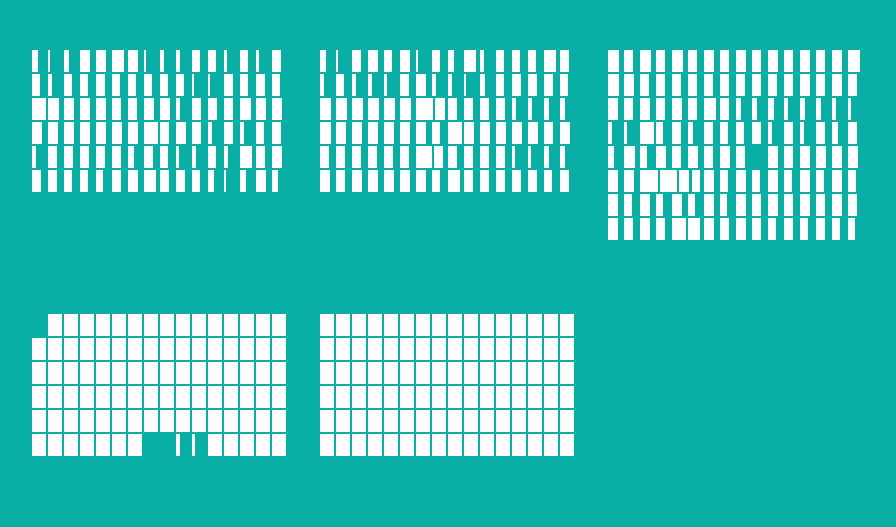
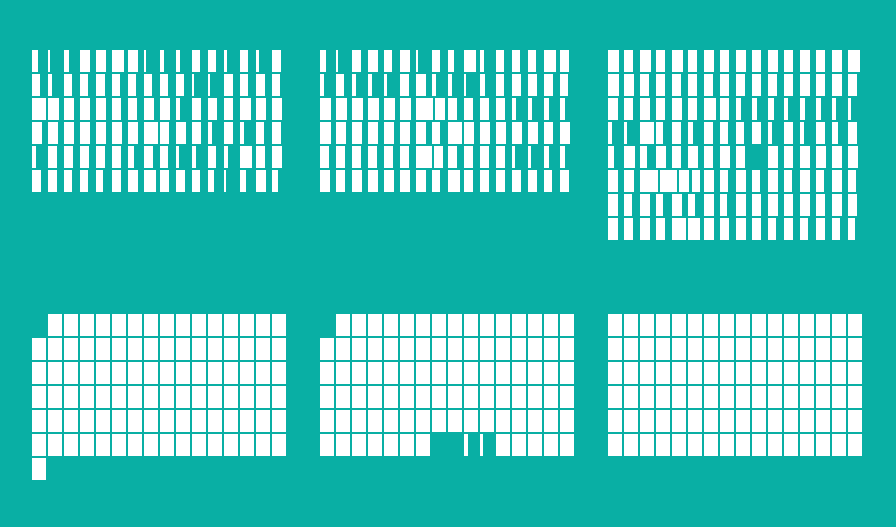
Full Width Latin complete
- Full width latin (plus extra Japanese punctuation that are in the Fullwidth and Halfwidth Letterforms block) have been finalised and added to the final June spritesheet.
- More work has been done to create and encode Japanese punctuation and symbols in june_wip.

diff --git a/readme.md b/readme.md
@@ -30,13 +30,12 @@ It's currently in a prototype stage, I'd like to get it encoded in a format or t
 	- (excluding the depreciated U+0149 character)
 - Hiragana (full)
 - Katakana (full)
-
+- Fullwidth and Halfwidth Letterforms (some)
+	- All Fullwidth ASCII characters + Japanese punctuation
 
 
 ##### In progress character areas (june_wip.ase)
 - Japanese Punctuation
-- Full-Width Latin (most)
-- Full-Width Latin Punctuation (some)
 - Playdate input icons in two sizes (one to fit Latin characters better, the other to fit CJK characters, I'll probably revise this in the future)
 
 ---
